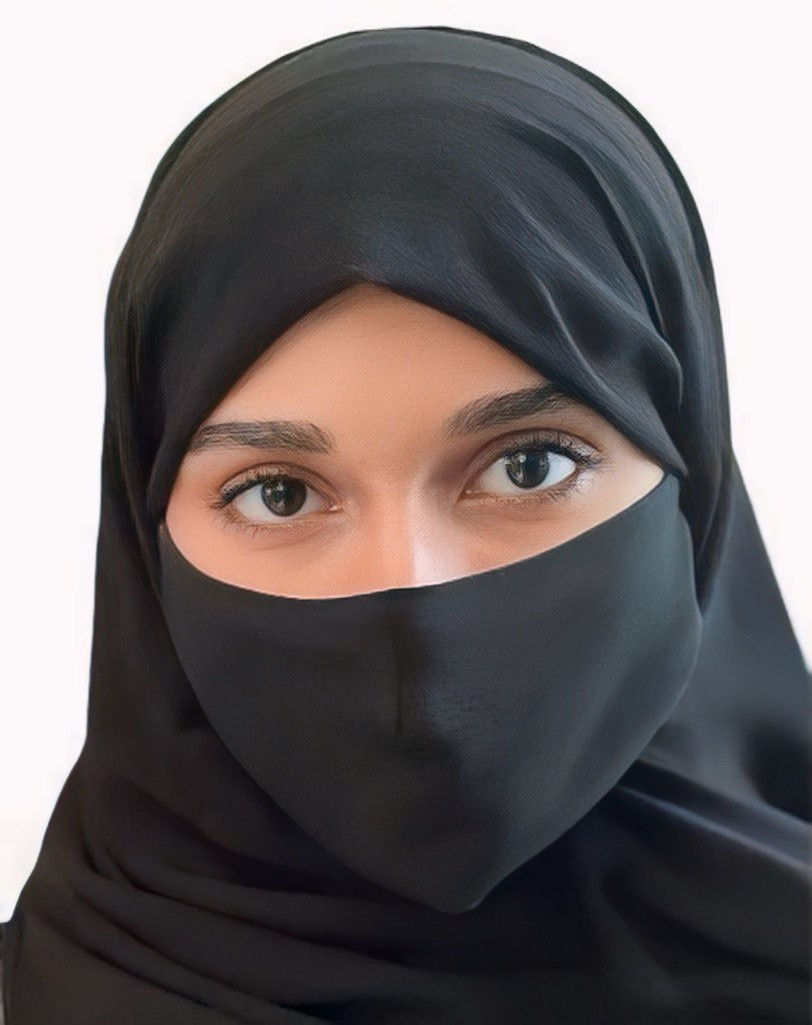
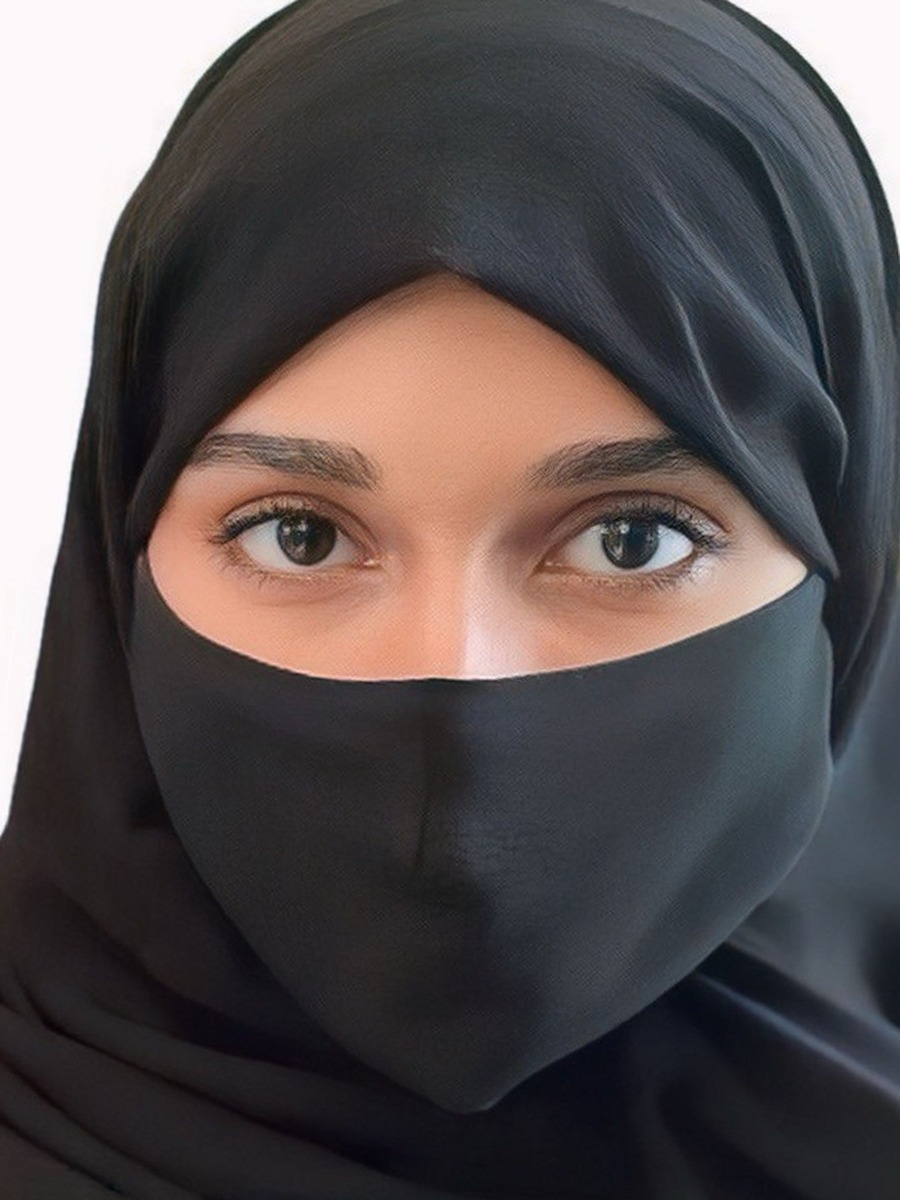
Add files via upload

diff --git a/index.html b/index.html
@@ -3,7 +3,34 @@
 <head>
 <meta charset="UTF-8">
 <meta name="viewport" content="width=device-width, initial-scale=1.0">
-<title>Reffal Alharbi — Designer</title>
+<title>Reffal Alharbi — UI/UX Designer &amp; Front-End Developer</title>
+<meta name="description" content="Reffal Alharbi — UI/UX designer and front-end developer based in Jeddah. Figma prototypes to deployed products in HTML, CSS, JavaScript and Flutter. Two-time first-place hackathon winner.">
+<meta name="author" content="Reffal Alharbi">
+<link rel="canonical" href="https://reffal-alharbi.github.io/">
+<meta name="theme-color" content="#0B1628">
+
+<!-- Link preview (LinkedIn, X, WhatsApp) -->
+<meta property="og:type" content="website">
+<meta property="og:site_name" content="Reffal Alharbi">
+<meta property="og:url" content="https://reffal-alharbi.github.io/">
+<meta property="og:title" content="Reffal Alharbi — UI/UX Designer &amp; Front-End Developer">
+<meta property="og:description" content="Figma prototypes to deployed products. Selected work, experience and skills.">
+<meta property="og:image" content="https://reffal-alharbi.github.io/og-image.jpg">
+<meta property="og:image:width" content="1200">
+<meta property="og:image:height" content="630">
+<meta property="og:image:alt" content="Reffal Alharbi — UI/UX Designer and Front-End Developer">
+<meta name="twitter:card" content="summary_large_image">
+<meta name="twitter:title" content="Reffal Alharbi — UI/UX Designer &amp; Front-End Developer">
+<meta name="twitter:description" content="Figma prototypes to deployed products. Selected work, experience and skills.">
+<meta name="twitter:image" content="https://reffal-alharbi.github.io/og-image.jpg">
+
+<!-- Icons -->
+<link rel="icon" href="favicon.ico" sizes="any">
+<link rel="icon" type="image/png" href="favicon.png">
+<link rel="apple-touch-icon" href="apple-touch-icon.png">
+
+<link rel="preconnect" href="https://fonts.googleapis.com">
+<link rel="preconnect" href="https://fonts.gstatic.com" crossorigin>
 <link href="https://fonts.googleapis.com/css2?family=Bricolage+Grotesque:opsz,wght@12..96,300;12..96,400;12..96,500;12..96,700;12..96,800&family=Instrument+Serif:ital@0;1&display=swap" rel="stylesheet">
 <style>
 *, *::before, *::after { margin: 0; padding: 0; box-sizing: border-box; }
@@ -625,7 +652,7 @@ h1.hero-title em {
       <a href="#projects">Projects</a>
       <a href="#skills">Skills</a>
     </div>
-    <a href="https://www.linkedin.com/in/refal-alharbi-/" target="_blank" class="nav-resume">Let's Connect</a>
+    <a href="https://www.linkedin.com/in/refal-alharbi-/" target="_blank" rel="noopener" class="nav-resume">Let's Connect</a>
   </div>
 </nav>
 
@@ -644,7 +671,7 @@ h1.hero-title em {
       <div class="hero-actions">
         <a href="#projects" class="btn-gold">View my work ↓</a>
         <a href="https://drive.google.com/file/d/1VpfMeNviNY759rhKAIl0CquNCDRD3c4m/view?usp=sharing"
-           target="_blank" class="btn-ghost-white">📄 Resume ↗</a>
+           target="_blank" rel="noopener" class="btn-ghost-white">📄 Resume ↗</a>
       </div>
     </div>
     <div class="hero-right">
@@ -691,7 +718,7 @@ h1.hero-title em {
         <p class="section-label" style="margin-bottom:20px; color:rgba(255,255,255,.3);">Quick facts</p>
         <div style="display:grid; grid-template-columns:1fr 1fr; gap:2px; border-radius:18px; overflow:hidden;">
           <div style="background:rgba(255,255,255,.05); border:1px solid rgba(255,255,255,.07); padding:24px 20px; min-height:110px; display:flex; flex-direction:column; justify-content:space-between;">
-            <div style="font-size:2.4rem; font-weight:800; letter-spacing:-.05em; color:var(--white); line-height:1;">3+</div>
+            <div style="font-size:2.4rem; font-weight:800; letter-spacing:-.05em; color:var(--white); line-height:1;">2+</div>
             <div style="font-size:.65rem; font-weight:500; color:rgba(255,255,255,.35); letter-spacing:.05em; text-transform:uppercase;">Years Experience</div>
           </div>
           <div style="background:rgba(255,255,255,.05); border:1px solid rgba(255,255,255,.07); padding:24px 20px; min-height:110px; display:flex; flex-direction:column; justify-content:space-between;">
@@ -759,7 +786,7 @@ h1.hero-title em {
         <div class="exp-company">King Abdulaziz University · Cooperative Training</div>
         <div class="exp-body">Supervised CS students in UI/UX design with Figma and front-end development. Guided real projects from concept to delivery.</div>
         <div class="exp-links">
-          <a href="https://www.linkedin.com/in/refal-alharbi-/overlay/Position/2833850288/treasury/?profileId=ACoAAEtd8MwBAdenYkqAwXusGoHtBXdVJV9l-cY" target="_blank" class="exp-link exp-link-cert">🏅 Certificate</a>
+          <a href="https://www.linkedin.com/in/refal-alharbi-/overlay/Position/2833850288/treasury/?profileId=ACoAAEtd8MwBAdenYkqAwXusGoHtBXdVJV9l-cY" target="_blank" rel="noopener" class="exp-link exp-link-cert">🏅 Certificate</a>
         </div>
       </div></div>
     </div>
@@ -773,8 +800,8 @@ h1.hero-title em {
         <div class="exp-company">Al-Dabbagh Group · Mobile App</div>
         <div class="exp-body">Designed and built an employee well-being app — Figma prototypes to Flutter. Step tracking, goals, rewards, and supervisor dashboards.</div>
         <div class="exp-links">
-          <a href="https://drive.google.com/file/d/1dP5Sn3DgeWy0Me0UE8gOgJyDKsqq557b/view" target="_blank" class="exp-link exp-link-project">🔗 View Project</a>
-          <a href="https://www.linkedin.com/in/refal-alharbi-/overlay/Position/2833852956/treasury/?profileId=ACoAAEtd8MwBAdenYkqAwXusGoHtBXdVJV9l-cY" target="_blank" class="exp-link exp-link-cert">🏅 Certificate</a>
+          <a href="https://drive.google.com/file/d/1dP5Sn3DgeWy0Me0UE8gOgJyDKsqq557b/view" target="_blank" rel="noopener" class="exp-link exp-link-project">🔗 View Project</a>
+          <a href="https://www.linkedin.com/in/refal-alharbi-/overlay/Position/2833852956/treasury/?profileId=ACoAAEtd8MwBAdenYkqAwXusGoHtBXdVJV9l-cY" target="_blank" rel="noopener" class="exp-link exp-link-cert">🏅 Certificate</a>
         </div>
       </div></div>
     </div>
@@ -788,8 +815,8 @@ h1.hero-title em {
         <div class="exp-company">King Abdulaziz University · Data Team</div>
         <div class="exp-body">Data cleaning and analysis using Excel and Python. Built interactive Power BI dashboards to surface insights for decision-makers.</div>
         <div class="exp-links">
-          <a href="https://drive.google.com/file/d/1UuTijWUJujP0D6udKi4kmwUNO9QCMfbx/view" target="_blank" class="exp-link exp-link-project">🔗 View Project</a>
-          <a href="https://www.linkedin.com/in/refal-alharbi-/overlay/Position/2680696146/treasury/?profileId=ACoAAEtd8MwBAdenYkqAwXusGoHtBXdVJV9l-cY" target="_blank" class="exp-link exp-link-cert">🏅 Certificate</a>
+          <a href="https://drive.google.com/file/d/1UuTijWUJujP0D6udKi4kmwUNO9QCMfbx/view" target="_blank" rel="noopener" class="exp-link exp-link-project">🔗 View Project</a>
+          <a href="https://www.linkedin.com/in/refal-alharbi-/overlay/Position/2680696146/treasury/?profileId=ACoAAEtd8MwBAdenYkqAwXusGoHtBXdVJV9l-cY" target="_blank" rel="noopener" class="exp-link exp-link-cert">🏅 Certificate</a>
         </div>
       </div></div>
     </div>
@@ -808,8 +835,8 @@ h1.hero-title em {
         <div class="proj-thumb-wrap">
           <div class="proj-slides" data-auto="true">
             <div class="proj-slide active"><img src="ana mawhoob.jpg" alt="Ana Mawhoob screen 1"></div>
-            <div class="proj-slide"><img src="ana1.jpg" alt="Ana Mawhoob screen 2"></div>
-            <div class="proj-slide"><img src="ana2.jpg" alt="Ana Mawhoob screen 3"></div>
+            <div class="proj-slide"><img src="ana1.jpg" alt="Ana Mawhoob screen 2" loading="lazy"></div>
+            <div class="proj-slide"><img src="ana2.jpg" alt="Ana Mawhoob screen 3" loading="lazy"></div>
           </div>
           <div class="proj-thumb-overlay"></div>
           <span class="proj-win proj-win-abs">🏆 1st Place · Waad Education</span>
@@ -817,7 +844,7 @@ h1.hero-title em {
         </div>
         <div class="proj-body">
           <div class="proj-name-row">
-            <img src="ana mawhoob.jpg" class="proj-logo" alt="">
+            <img src="ana mawhoob.jpg" class="proj-logo" alt="Ana Mawhoob logo" loading="lazy">
             <div class="proj-name">Ana Mawhoob</div>
           </div>
           <div class="proj-desc">Smart educational platform for talent management. Designed the full UI/UX and built the front-end — concept to product.</div>
@@ -829,8 +856,8 @@ h1.hero-title em {
         <div class="proj-thumb-wrap">
           <div class="proj-slides" data-auto="true">
             <div class="proj-slide active"><img src="araa.jpg" alt="Araa screen 1"></div>
-            <div class="proj-slide"><img src="ar1.jpg" alt="Araa screen 2"></div>
-            <div class="proj-slide"><img src="ar2.jpg" alt="Araa screen 3"></div>
+            <div class="proj-slide"><img src="ar1.jpg" alt="Araa screen 2" loading="lazy"></div>
+            <div class="proj-slide"><img src="ar2.jpg" alt="Araa screen 3" loading="lazy"></div>
           </div>
           <div class="proj-thumb-overlay"></div>
           <span class="proj-win proj-win-abs">🏆 1st Place · Robocon 2025</span>
@@ -838,7 +865,7 @@ h1.hero-title em {
         </div>
         <div class="proj-body">
           <div class="proj-name-row">
-            <img src="araa.jpg" class="proj-logo" alt="">
+            <img src="araa.jpg" class="proj-logo" alt="Araa logo" loading="lazy">
             <div class="proj-name">Araa — Assistive Navigation</div>
           </div>
           <div class="proj-desc">AI navigation for visually impaired users. Obstacle detection, GPS routing, and real-time voice guidance.</div>
@@ -850,15 +877,15 @@ h1.hero-title em {
         <div class="proj-thumb-wrap">
           <div class="proj-slides" data-auto="true">
             <div class="proj-slide active"><img src="sky-sight.jpg" alt="SkySight screen 1"></div>
-            <div class="proj-slide"><img src="sky1.jpg" alt="SkySight screen 2"></div>
-            <div class="proj-slide"><img src="sky2.jpg" alt="SkySight screen 3"></div>
+            <div class="proj-slide"><img src="sky1.jpg" alt="SkySight screen 2" loading="lazy"></div>
+            <div class="proj-slide"><img src="sky2.jpg" alt="SkySight screen 3" loading="lazy"></div>
           </div>
           <div class="proj-thumb-overlay"></div>
           <div class="proj-dots"><div class="proj-dot on"></div><div class="proj-dot"></div><div class="proj-dot"></div></div>
         </div>
         <div class="proj-body">
           <div class="proj-name-row">
-            <img src="sky-sight.jpg" class="proj-logo" alt="">
+            <img src="sky-sight.jpg" class="proj-logo" alt="SkySight logo" loading="lazy">
             <div class="proj-name">SkySight</div>
           </div>
           <div class="proj-desc">Astronomy platform with live maps, AI chatbot, and community features for discovering celestial events.</div>
@@ -870,15 +897,15 @@ h1.hero-title em {
         <div class="proj-thumb-wrap">
           <div class="proj-slides" data-auto="true">
             <div class="proj-slide active"><img src="yusr.jpg" alt="Yusr screen 1"></div>
-            <div class="proj-slide"><img src="yusr1.jpg" alt="Yusr screen 2"></div>
-            <div class="proj-slide"><img src="yusr2.jpg" alt="Yusr screen 3"></div>
+            <div class="proj-slide"><img src="yusr1.jpg" alt="Yusr screen 2" loading="lazy"></div>
+            <div class="proj-slide"><img src="yusr2.jpg" alt="Yusr screen 3" loading="lazy"></div>
           </div>
           <div class="proj-thumb-overlay"></div>
           <div class="proj-dots"><div class="proj-dot on"></div><div class="proj-dot"></div><div class="proj-dot"></div></div>
         </div>
         <div class="proj-body">
           <div class="proj-name-row">
-            <img src="yusr.jpg" class="proj-logo" alt="">
+            <img src="yusr.jpg" class="proj-logo" alt="Yusr logo" loading="lazy">
             <div class="proj-name">Yusr — Guidance for the Deaf</div>
           </div>
           <div class="proj-desc">Sign-language recognition system for Al-Masjid Al-Haram screens, guiding deaf users throughout Umrah.</div>
@@ -954,14 +981,14 @@ h1.hero-title em {
         <div class="footer-name">Reffal <em>Alharbi</em></div>
         <div class="footer-tagline">UI/UX Designer · Front-End Developer · IT Specialist</div>
         <a href="https://drive.google.com/file/d/1VpfMeNviNY759rhKAIl0CquNCDRD3c4m/view?usp=sharing"
-           target="_blank" class="footer-resume-btn">📄 Download Resume ↗</a>
+           target="_blank" rel="noopener" class="footer-resume-btn">📄 Download Resume ↗</a>
       </div>
       <div class="footer-links">
-<a href="mailto:Reffal.2Alharbi@gmail.com" class="footer-link">
-  <div class="f-icon">📧</div> Reffal.2Alharbi@gmail.com
+<a href="mailto:reffal.m.alharbi@gmail.com" class="footer-link">
+  <div class="f-icon">📧</div> reffal.m.alharbi@gmail.com
 </a>        <a href="tel:+966548255230" class="footer-link"><div class="f-icon">📱</div> +966 54 825 5230</a>
-        <a href="https://www.linkedin.com/in/refal-alharbi-/" target="_blank" class="footer-link"><div class="f-icon">🔗</div> linkedin.com/in/refal-alharbi-</a>
-        <a href="https://github.com/Refal-Alharbi" target="_blank" class="footer-link"><div class="f-icon">⌥</div> github.com/Refal-Alharbi</a>
+        <a href="https://www.linkedin.com/in/refal-alharbi-/" target="_blank" rel="noopener" class="footer-link"><div class="f-icon">🔗</div> linkedin.com/in/refal-alharbi-</a>
+        <a href="https://github.com/Reffal-Alharbi" target="_blank" rel="noopener" class="footer-link"><div class="f-icon">⌥</div> github.com/Reffal-Alharbi</a>
       </div>
     </div>
     <div class="footer-bottom">
@@ -971,7 +998,7 @@ h1.hero-title em {
   </div>
 </div>
 
-<script data-cfasync="false" src="/cdn-cgi/scripts/5c5dd728/cloudflare-static/email-decode.min.js"></script><script>
+<script>
 const line = document.getElementById('scrollLine');
 window.addEventListener('scroll', () => {
   const h = document.documentElement.scrollHeight - window.innerHeight;
